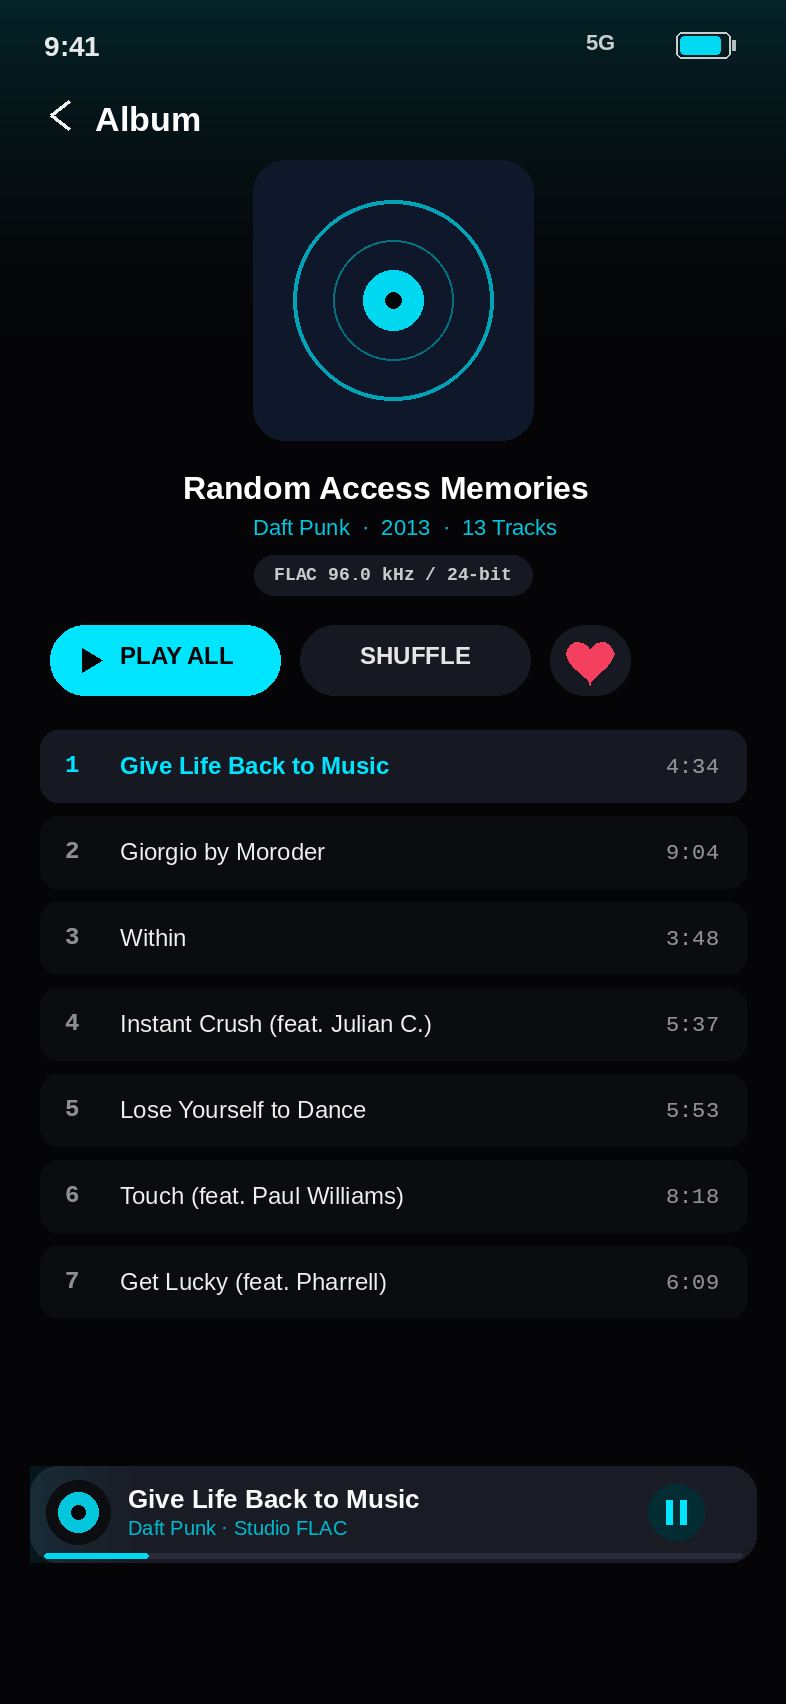
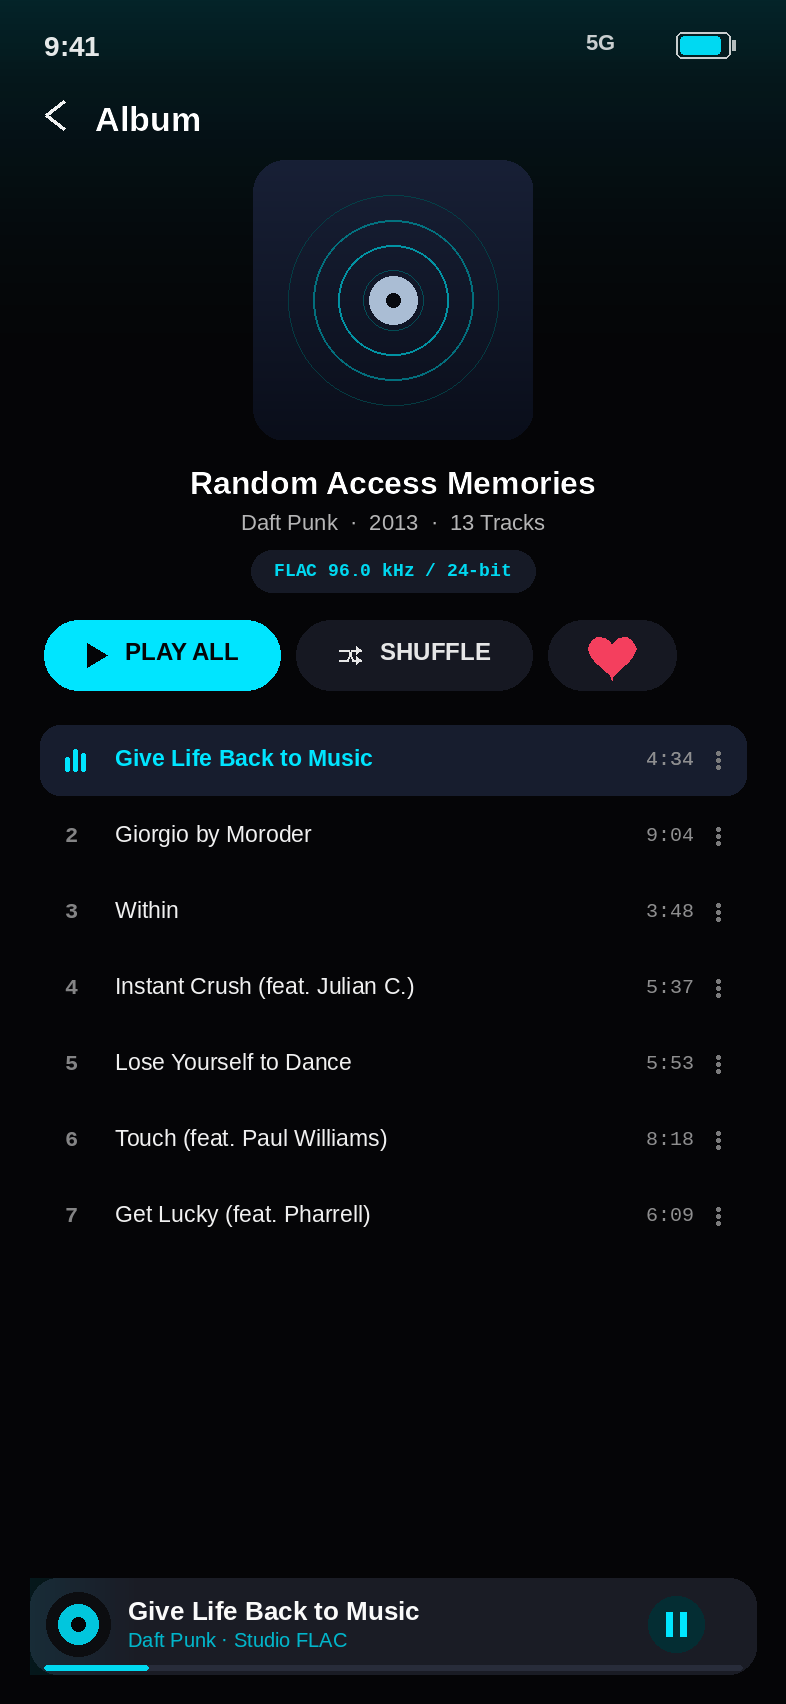
fix(ui): fix pill sizing, horizontal centering drift, hero dissolve and tracklist on L0 (UI Audit 03/42)

diff --git a/lib/features/library/presentation/screens/album_detail_screen.dart b/lib/features/library/presentation/screens/album_detail_screen.dart
@@ -30,6 +30,8 @@ class AlbumDetailScreen extends ConsumerWidget {
     final onSurfaceVariant = theme.colorScheme.onSurfaceVariant;
     final surfaceTokens = NexaSurfaceTokens.of(context);
     final tracksAsync = ref.watch(albumDetailTracksProvider(album.id));
+    final playerState = ref.watch(playerNotifierProvider);
+    final currentTrackId = playerState.currentTrack?.id;
 
     return Scaffold(
       key: Phase2Keys.albumDetailScreen,
@@ -125,34 +127,33 @@ class AlbumDetailScreen extends ConsumerWidget {
                 // Metadata Pill & Action Buttons Row
                 Row(
                   children: [
-                    if (album.trackCount != null && album.trackCount! > 0)
-                      Container(
-                        padding: const EdgeInsets.symmetric(
-                          horizontal: 8.0,
-                          vertical: 4.0,
-                        ),
-                        decoration: BoxDecoration(
-                          color: surfaceTokens.level2,
-                          borderRadius: BorderRadius.circular(8.0),
-                        ),
-                        child: Text(
-                          album.trackCountLabel,
-                          style: (surfaceTokens.telemetryTextStyle ?? AppTypography.labelSmall).copyWith(
-                            color: primary,
-                            fontWeight: FontWeight.w600,
-                            fontSize: 11.0,
-                          ),
+                    Container(
+                      padding: const EdgeInsets.symmetric(
+                        horizontal: 12.0,
+                        vertical: 5.0,
+                      ),
+                      decoration: BoxDecoration(
+                        color: surfaceTokens.level2,
+                        borderRadius: BorderRadius.circular(12.0),
+                      ),
+                      child: Text(
+                        '${album.year != null ? '${album.year} • ' : ''}${album.trackCountLabel} • FLAC 96/24',
+                        style: (surfaceTokens.telemetryTextStyle ?? AppTypography.labelSmall).copyWith(
+                          color: primary,
+                          fontWeight: FontWeight.w600,
+                          fontSize: 11.0,
                         ),
                       ),
+                    ),
                     const Spacer(),
                     // Play All button
                     FilledButton.icon(
                       style: FilledButton.styleFrom(
-                        padding: const EdgeInsets.symmetric(horizontal: 16.0, vertical: 8.0),
+                        padding: const EdgeInsets.symmetric(horizontal: 18.0, vertical: 10.0),
                         shape: RoundedRectangleBorder(borderRadius: BorderRadius.circular(20.0)),
                       ),
                       icon: const Icon(Icons.play_arrow_rounded, size: 20.0),
-                      label: const Text('Play'),
+                      label: const Text('Play All'),
                       onPressed: () {
                         final tracks = tracksAsync.valueOrNull;
                         if (tracks != null && tracks.isNotEmpty) {
@@ -205,6 +206,7 @@ class AlbumDetailScreen extends ConsumerWidget {
                             child: TrackTile.fromTrack(
                               key: Phase2Keys.trackTile(track.id),
                               track: track,
+                              isPlaying: track.id == currentTrackId,
                             ),
                           );
                         },
